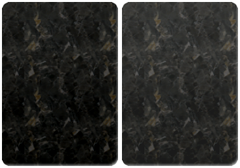
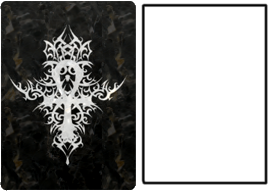
- Support to draw text even when the card is face down - Fixed the flipped card drawing (it was inverse) - Changed the card image so that both side are way different - New visual option for card stack: Should the last card be face up - Started adding real styles - Moved the deck around to start look

diff --git a/Scripts/js/Game/Cards/CardStack.js b/Scripts/js/Game/Cards/CardStack.js
@@ -9,6 +9,7 @@ CardStackStyling.VisualStyle.oDefault = new function()
 	this.fHorizontalSpacing = 2.0;
 	this.fVerticalSpacing = -2.0;
 	this.bRelativeToTopCard = false;
+	this.bLastCardFaceUp = false;
 }
 
 CardStackStyling.VisualStyle.oHealthBar = new function()
@@ -17,6 +18,16 @@ CardStackStyling.VisualStyle.oHealthBar = new function()
 	this.fHorizontalSpacing = 6.0;
 	this.fVerticalSpacing = 0.0;
 	this.bRelativeToTopCard = false;
+	this.bLastCardFaceUp = false;
+}
+
+CardStackStyling.VisualStyle.oActionStack = new function()
+{
+	this.sBackgroundImagePath = "";
+	this.fHorizontalSpacing = 0.0;
+	this.fVerticalSpacing = -3.0;
+	this.bRelativeToTopCard = false;
+	this.bLastCardFaceUp = true;
 }
 
 CardStackStyling.VisualStyle.oSimpleStack = new function()
@@ -25,6 +36,7 @@ CardStackStyling.VisualStyle.oSimpleStack = new function()
 	this.fHorizontalSpacing = 3.0;
 	this.fVerticalSpacing = -3.0;
 	this.bRelativeToTopCard = false;
+	this.bLastCardFaceUp = true;
 }
 
 CardStackStyling.VisualStyle.oDragStack = new function()
@@ -33,6 +45,7 @@ CardStackStyling.VisualStyle.oDragStack = new function()
 	this.fHorizontalSpacing = 0.0;
 	this.fVerticalSpacing = 3.0;
 	this.bRelativeToTopCard = true;
+	this.bLastCardFaceUp = true;
 }
 
 CardStackStyling.VisualStyle.oCardSlot = new function()
@@ -41,11 +54,20 @@ CardStackStyling.VisualStyle.oCardSlot = new function()
 	this.fHorizontalSpacing = 0.0;
 	this.fVerticalSpacing = 3.0;
 	this.bRelativeToTopCard = false;
+	this.bLastCardFaceUp = true;
 }
 
 CardStackStyling.InteractiveStyle = {};
 
 CardStackStyling.InteractiveStyle.oDefault = new function()
+{
+	this.bDropOut = false;
+	this.iDropOutMaxCount = 0;
+	this.bDropIn = false;
+	this.iDropInMaxCount = 0;
+}
+
+CardStackStyling.InteractiveStyle.oNonInteractive = new function()
 {
 	this.bDropOut = false;
 	this.iDropOutMaxCount = 0;
@@ -164,13 +186,17 @@ function CardStack(poCardStackVisualStyle, poCardStackInteractiveStyle)
 		return moInteractiveStyle.iDropOutMaxCount;
 	}
 	
-	this.pushCard = function(poCard)
+	this.pushCard = function(poCard, bFlipFrontCard)
 	{
+		if(bFlipFrontCard == null)
+		{
+			bFlipFrontCard = true;
+		}
+		
 		if(mtoCards.length > 0)
 		{
 			mtoCards[mtoCards.length - 1].setFaceUp(false, moInteractiveStyle.bDropOut);
 		}
-		poCard.setFaceUp(true, moInteractiveStyle.bDropOut);
 		
 		this.positionCard(poCard, mtoCards.length);
 		
@@ -179,18 +205,23 @@ function CardStack(poCardStackVisualStyle, poCardStackInteractiveStyle)
 		poCard.sText = mtoCards.length.toString();
 		poCard.oParentStack = this;
 		
+		if(bFlipFrontCard)
+		{
+			this.flipFrontCard();
+		}
+		
 		this.updateCardSlotRectangle();
 	}
 	
-	this.popCard = function()
+	this.popCard = function(pbFlipFrontCard)
 	{
 		var oCard = mtoCards[mtoCards.length - 1];
 		
 		mtoCards.splice(mtoCards.length-1, 1);
 		
-		if(mtoCards.length > 0)
+		if(mtoCards.length > 0 && pbFlipFrontCard)
 		{
-			mtoCards[mtoCards.length - 1].setFaceUp(true, moInteractiveStyle.bDropOut);
+			this.flipFrontCard();
 		}
 		
 		for(var i = 0; i < mtoCards.length; ++i)
@@ -201,6 +232,21 @@ function CardStack(poCardStackVisualStyle, poCardStackInteractiveStyle)
 		this.updateCardSlotRectangle();
 		
 		return oCard;
+	}
+	
+	this.flipFrontCard = function()
+	{
+		if(moVisualStyle.bLastCardFaceUp)
+		{
+			if(mtoCards.length > 0)
+			{
+				mtoCards[mtoCards.length - 1].setFaceUp(true, moInteractiveStyle.bDropOut);
+			}
+		}
+		else
+		{
+			mtoCards[mtoCards.length - 1].setDrawText(true);
+		}
 	}
 	
 	this.draw = function(poCanvas)

diff --git a/Scripts/js/Game/Cards/Card.js b/Scripts/js/Game/Cards/Card.js
@@ -10,8 +10,10 @@ function Card(psCardImagePath)
 	var moCardImage = new Image();
 	moCardImage.src = psCardImagePath;
 	var mbFaceUp = false;
+	var mbDrawText = false;
 	var moMouseEventComponent = null;
 	var moDrawComponent = null;
+	
 	
 	var moOldCardStack;
 	var moNewCardStack;
@@ -19,9 +21,9 @@ function Card(psCardImagePath)
 	this.draw = function(poCanvas)
 	{
 		var cardWidth = moCardImage.width * 0.5;
-		poCanvas.drawImage(moCardImage, (mbFaceUp ? 0.0 : cardWidth), 0.0, cardWidth, moCardImage.height, this.fPositionX, this.fPositionY, cardWidth * this.fScale, moCardImage.height * this.fScale);
+		poCanvas.drawImage(moCardImage, (mbFaceUp ? cardWidth : 0.0), 0.0, cardWidth, moCardImage.height, this.fPositionX, this.fPositionY, cardWidth * this.fScale, moCardImage.height * this.fScale);
 		
-		if(mbFaceUp && this.sText != "")
+		if(mbDrawText && this.sText != "")
 		{
 			Text.drawText(poCanvas, this.sText, this.fPositionX + this.getSize().x * 0.5, this.fPositionY + this.getSize().y * 0.5, FontTypes.oCard, "center", "middle");
 		}
@@ -61,8 +63,15 @@ function Card(psCardImagePath)
 					goMouseEventManagerInstance.addComponent(this, this.fPositionY, this.fPositionX, this.getSize().x, this.getSize().y);
 				}
 			}
+			
+			this.setDrawText(mbFaceUp);
 		}
 	};
+	
+	this.setDrawText = function(pbDrawText)
+	{
+		mbDrawText = pbDrawText;
+	}
 	
 	this.getSize = function()
 	{
@@ -94,6 +103,11 @@ function Card(psCardImagePath)
 		{
 			setCursorStyle("auto");
 		}
+	}
+	
+	this.getCardDropOutCount = function()
+	{
+		return moOldCardStack.getDropOutMaxCount() - this.oParentStack.getCardCount();
 	}
 	
 	this.onMouseIn = function()
@@ -147,6 +161,7 @@ function Card(psCardImagePath)
 					moNewCardStack.bBeingMoved = false;
 				}
 				
+				moOldCardStack.flipFrontCard();
 				moNewCardStack = null;
 				moOldCardStack = null;
 				
@@ -167,10 +182,12 @@ function Card(psCardImagePath)
 		{
 			if(moNewCardStack == null)
 			{
+				var bShouldFlipCard = this.oParentStack.getDropOutMaxCount() - 1 != 0;
+				
 				moOldCardStack = this.oParentStack;
 				moNewCardStack = new CardStack(CardStackStyling.VisualStyle.oDragStack, CardStackStyling.InteractiveStyle.oDragStack);
 				moNewCardStack.setPosition(this.fPositionX, this.fPositionY);
-				moNewCardStack.pushCard(this.oParentStack.popCard());
+				moNewCardStack.pushCard(this.oParentStack.popCard(bShouldFlipCard));
 				moNewCardStack.bBeingMoved = true;
 				
 				moMouseEventComponent.setZOrder(100);
@@ -188,11 +205,11 @@ function Card(psCardImagePath)
 		{
 			if(piDelta > 0)
 			{
-				var iCardSpotLeft = moOldCardStack.getDropOutMaxCount() - this.oParentStack.getCardCount();
-				if(moOldCardStack.getCardCount() > 0 && iCardSpotLeft != 0)
+				if(moOldCardStack.getCardCount() > 0 && this.getCardDropOutCount() != 0)
 				{
+					var bShouldFlipCard = moOldCardStack.getDropOutMaxCount() - this.oParentStack.getCardCount() - 1 != 0;
 					moNewCardStack.popCard();
-					moNewCardStack.pushCard(moOldCardStack.popCard());
+					moNewCardStack.pushCard(moOldCardStack.popCard(bShouldFlipCard));
 					moNewCardStack.pushCard(this);
 				}
 			}
@@ -201,10 +218,12 @@ function Card(psCardImagePath)
 				if(moNewCardStack.getCardCount() > 1)
 				{
 					moNewCardStack.popCard();
-					moOldCardStack.pushCard(moNewCardStack.popCard());
+					moOldCardStack.pushCard(moNewCardStack.popCard(), this.getCardDropOutCount() != 0);
 					moNewCardStack.pushCard(this);
 				}
 			}
+			
+			return true;
 		}
 	}
 }

diff --git a/Scripts/js/Game/Game.js b/Scripts/js/Game/Game.js
@@ -2,24 +2,33 @@ function initializeGame()
 {
 	goDrawManagerInstance.SetBackground("Assets/Images/Background.png");
 	
-	var cardLot = new CardStack(null, CardStackStyling.InteractiveStyle.oMultipleDragCardStack);
-	var cardLot2 = new CardStack(CardStackStyling.VisualStyle.oSimpleStack, CardStackStyling.InteractiveStyle.oSingleDragCardStack);
+	var oHealthBar = new CardStack(CardStackStyling.VisualStyle.oHealthBar, CardStackStyling.InteractiveStyle.oNonInteractive);
+	for(i = 0; i < 20; ++i)
+	{
+		oHealthBar.pushCard(new Card("Assets/Images/Card.png"));
+	}
+	oHealthBar.setPosition(10, 570);
 	
-	var lotSize = Math.round(Math.random() * 10.0);
+	var oActionCard1 = new CardStack(CardStackStyling.VisualStyle.oActionStack, CardStackStyling.InteractiveStyle.oMultipleDragCardStack);
+	var lotSize = 1 + Math.round(Math.random() * 4.0);
 	for(i = 0; i < lotSize; ++i)
 	{
-		cardLot.pushCard(new Card("Assets/Images/Card.png"));
+		oActionCard1.pushCard(new Card("Assets/Images/Card.png"));
 	}
-	cardLot.setPosition(100, 100);
+	oActionCard1.setPosition(350, 570);
 	
-	lotSize = Math.round(Math.random() * 10.0);
+	var oActionCard2 = new CardStack(CardStackStyling.VisualStyle.oActionStack, CardStackStyling.InteractiveStyle.oSingleDragCardStack);
+	
+	lotSize = 1 + Math.round(Math.random() * 4.0);
 	for(i = 0; i < lotSize; ++i)
 	{
-		cardLot2.pushCard(new Card("Assets/Images/Card.png"));
+		oActionCard2.pushCard(new Card("Assets/Images/Card.png"));
 	}
-	cardLot2.setPosition(250, 100);
+	oActionCard2.setPosition(500, 570);
 	
-	var cardLot3 = new CardStack(CardStackStyling.VisualStyle.oCardSlot, CardStackStyling.InteractiveStyle.oMultipleCardSlot);
-	cardLot3.setPosition(600, 100);
+	var oStaminaSlot = new CardStack(CardStackStyling.VisualStyle.oCardSlot, CardStackStyling.InteractiveStyle.oSingleCardSlot);
+	oStaminaSlot.setPosition(300, 350);
+	
+	
 }
 gtfInitializationFunctions.push(initializeGame);
